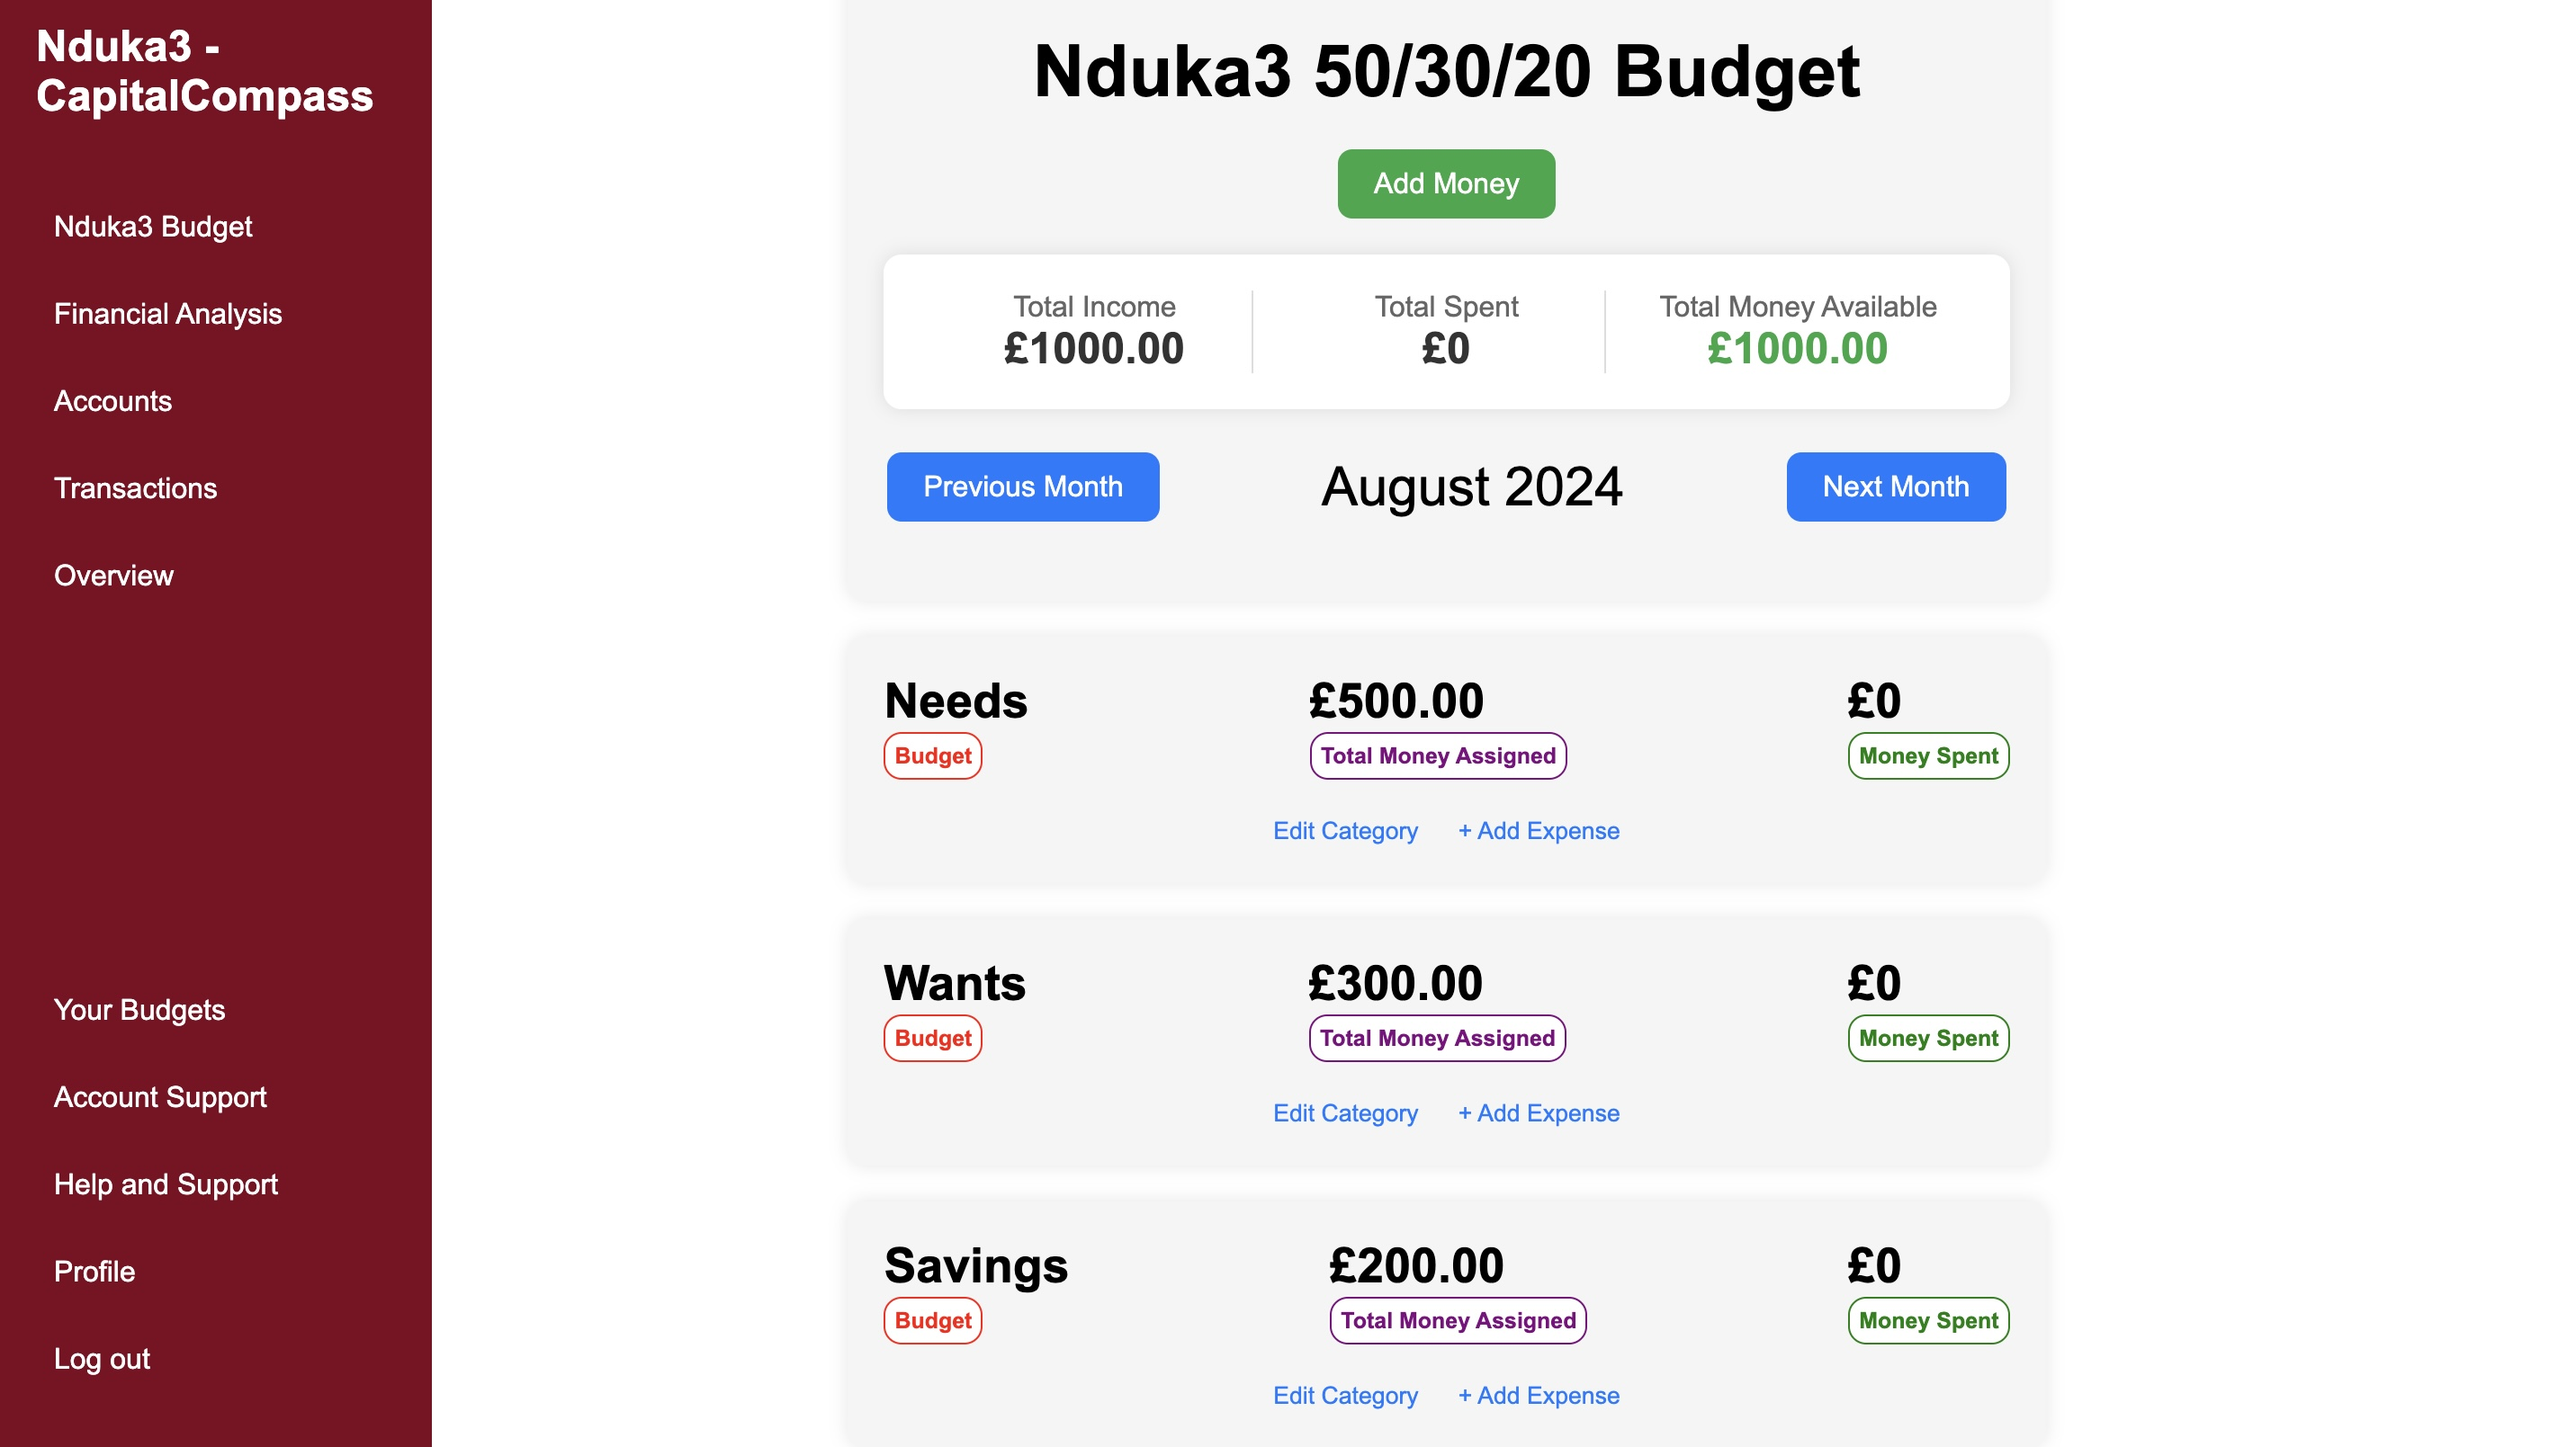
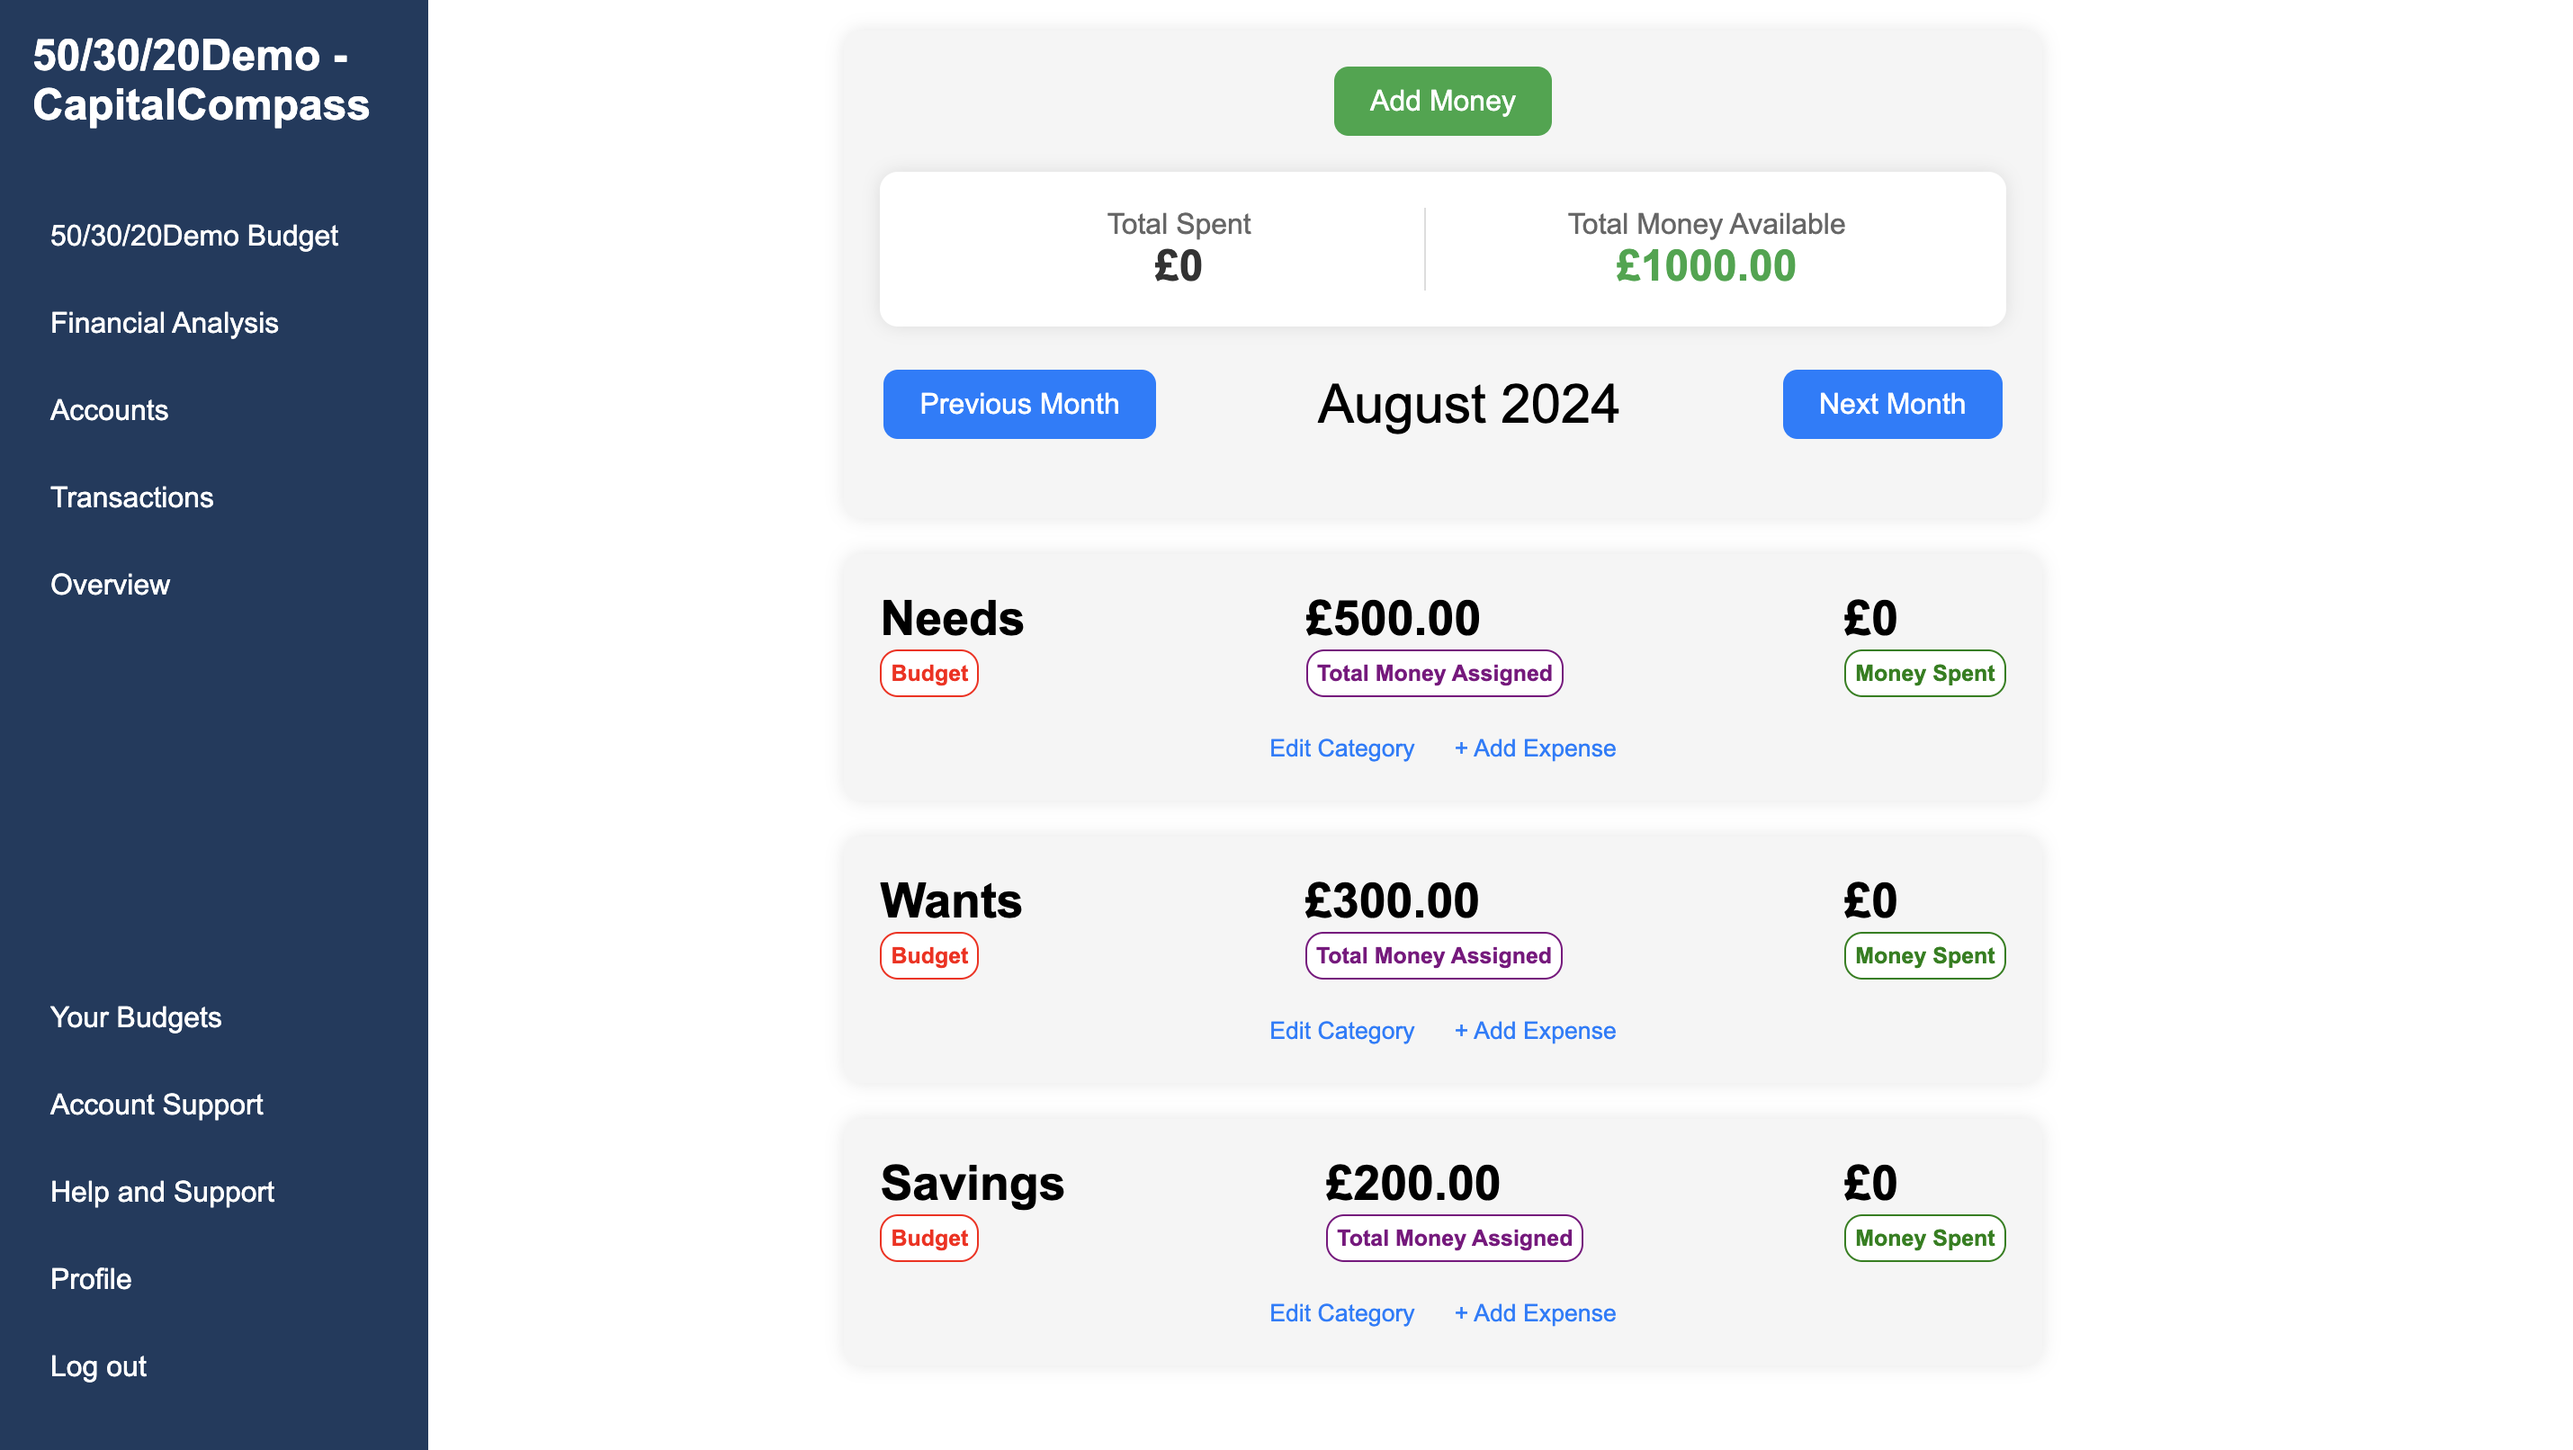
Final user interface updates

diff --git a/templates/financeapp/transactions.html b/templates/financeapp/transactions.html
@@ -29,7 +29,6 @@
                     </option>
                     {% endfor %}
                 </select>
-
                 <label for"category-filter">Filter by Category:</label>
                 <select id="category-filter" name="category_id" onchange="this.form.submit()">
                     <option value="">All Categories</option>
@@ -50,8 +49,8 @@
                 </select>
 
                 <select id="sort-order" name="sort_order" onchange="this.form.submit()">
-                    <option value="asc" {% if sort_order == 'asc' %}selected{% endif %}>Ascending</option>
                     <option value="desc" {% if sort_order == 'desc' %}selected{% endif %}>Descending</option>
+                    <option value="asc" {% if sort_order == 'asc' %}selected{% endif %}>Ascending</option>
                 </select>
             </form>
         </div>
@@ -90,7 +89,7 @@
                     <td>{{ transaction.outflow }}</td>
                     <td>{{ transaction.inflow }}</td>
                     <td>
-                        <button class="btn btn-sm btn-outline-secondary" onclick="showEditTransactionForm('{{ transaction.id }}', '{{ transaction.account.id }}', '{{ transaction.date|date:'Y-m-d' }}', '{{ transaction.description }}', '{{ transaction.payee }}', '{{ transaction.expense.id }}', '{{ transaction.outflow }}', '{{ transaction.inflow }}')">
+                        <button class="btn btn-sm btn-outline-secondary" onclick="showEditTransactionForm('{{ transaction.id }}', '{{ transaction.account_id }}', '{{ transaction.date|date:"Y-m-d" }}', '{{ transaction.description }}', '{{ transaction.payee|escapejs }}', '{{ transaction.expense_id|default:"null" }}', '{{ transaction.outflow }}', '{{ transaction.inflow }}')">
                             <i class="fas fa-pencil-alt"></i>
                         </button>
                     </td>
@@ -235,7 +234,6 @@
                         {% endfor %}
                         <option value="add-new-expense">+ Add New Expense</option>
                     </select>
-                 
                 </div>
                 <div class="styled-form-group">
                     <label for="edit-outflow" class="styled-label">Amount</label>

diff --git a/templates/financeapp/help_page.html b/templates/financeapp/help_page.html
@@ -67,13 +67,13 @@
                     <p>The 'Transactions' section helps you manage all your financial activities seamlessly. Here, you can add, edit, and delete transactions with ease.</p>
                     <p>To add a new transaction, simply click on the 'Add Transaction' button and fill in the necessary details. You can categorize each transaction, add notes, and set the transaction date to keep your records organized.</p>
                     <ul>
-                        <li><strong>Outflows:</strong> These represent expenses, where money is leaving your account. Outflows must be associated with an expense. If an expense isn’t available, you can create one on the budget page.</li>
-                        <li><strong>Inflows:</strong> Inflows represent income or any funds coming into your account, helping you track your earnings and deposits.</li>
+                        <li><strong>Outflows:</strong> These represent expenses, where money is leaving your account. Outflows are typically represented in <span style="color: red; font-weight: bold;">red</span>. Outflows must be associated with an expense. If an expense is not available, you can create one on the budget page.</li>
+                        <li><strong>Inflows:</strong> Inflows represent income or any funds coming into your account, helping you track your earnings and deposits. Inflows are typically represented in <span style="color: green; font-weight: bold;">green</span>.</li>
                     </ul>
-                    <p> To edit or delete a transaction, click on the transaction and select the appropriate action. </p>
+                    <p>To edit or delete a transaction, click on the transaction and select the appropriate action.</p>
                     <img src="{% static 'images/help-page/Transaction-screenshot.jpg' %}" alt="Transactions Overview">
                 </div>
-            </div>
+            </div>            
             
 
   

diff --git a/templates/financeapp/zero_based_budget_detail.html b/templates/financeapp/zero_based_budget_detail.html
@@ -210,7 +210,7 @@
                 <input type="hidden" name="category_id" id="expense-category-id">
                 <div id="add-expense-recurring-container" style="display: none;">
                     <div class="form-group">
-                        <label for="id_is_recurring" class="styled-label">Repeat Monthly:</label>
+                        <label for="id_is_recurring" class="styled-label">Would you like this to be a monthly expense?</label>
                         <input type="checkbox" name="is_recurring" id="id_is_recurring" class="styled-checkbox">
                     </div>
                 </div>
@@ -253,7 +253,7 @@
             </div>
             
             <div class="form-group">
-                <label for="edit-is_recurring_expense" class="styled-label">Repeat Monthly:</label>
+                <label for="edit-is_recurring_expense" class="styled-label">Would you like this to be a monthly expense?</label>
                 <input type="checkbox" name="is_recurring" id="edit-is_recurring_expense" class="form-check-input styled-checkbox">
             </div>
 

diff --git a/static/styles/application.css b/static/styles/application.css
@@ -15,7 +15,8 @@ body {
 
 .sidebar {
   width: 200px;
-  background-color: #800020; /* Burgundy color */
+  /* background-color: #800020; /* Burgundy color */
+  background-color: #1e3a5f;
   color: white;
   padding: 20px;
   display: flex;
@@ -71,7 +72,8 @@ body {
 }
 
 .sidebar nav ul li a:hover {
-  background-color: #a52a2a; /* Darker shade of burgundy */
+  /*background-color: #a52a2a; /* Darker shade of burgundy */
+  background-color: #264d73; /* Darker shade of professional blue */
 }
 
 main {

diff --git a/financeapp/models.py b/financeapp/models.py
@@ -243,7 +243,7 @@ class Expense(models.Model):
 #Transaction Model
 class Transaction(models.Model):
     account = models.ForeignKey(Account, on_delete=models.CASCADE, related_name='transactions')
-    expense = models.ForeignKey(Expense, on_delete=models.CASCADE, related_name='transactions', null=True, blank=True)
+    expense = models.ForeignKey(Expense, on_delete=models.SET_NULL, related_name='transactions', null=True, blank=True)
     date = models.DateField(default=timezone.now)
     description = models.CharField(max_length=255, blank=True, null=True)
     payee = models.CharField(max_length=255, blank=True, null=True)
@@ -264,7 +264,6 @@ class Transaction(models.Model):
                 if self.outflow > 0:
                     self.account.balance -= Decimal(self.outflow)
                     self.inflow = 0
-
                 self.account.save()
 
                 # If this is an outflow, update the linked expense
@@ -296,6 +295,23 @@ class Transaction(models.Model):
                             self.expense.spent = Decimal(self.outflow)
                             self.expense.save()
                 self.account.save()
+        elif self.plaid_imported:
+            if self.pk is None and not self.created_by_account : 
+                if self.outflow > 0 and self.expense:
+                    self.expense.spent += Decimal(self.outflow)
+                    self.expense.save()
+            else:
+                if self.pk is not None:
+                    old_transaction = Transaction.objects.get(pk=self.pk)
+                    if old_transaction.outflow > 0 and old_transaction.expense:
+                        old_transaction.expense.spent -= Decimal(old_transaction.outflow)
+                        old_transaction.expense.save()
+                    
+                    if self.outflow > 0 and self.expense:
+                        self.expense.spent = Decimal(self.outflow)
+                        self.expense.save()
+       
+
         super().save(*args, **kwargs)
 
     def delete(self, *args, **kwargs):
@@ -307,11 +323,10 @@ class Transaction(models.Model):
                 self.account.balance += Decimal(self.outflow)
 
             self.account.save()
-
-            # If this is an outflow, update the linked expense
-            if self.outflow > 0 and self.expense:
-                self.expense.spent -= Decimal(self.outflow)
-                self.expense.save()
+       
+        if self.outflow > 0 and self.expense:
+            self.expense.spent -= Decimal(self.outflow)
+            self.expense.save()
         super().delete(*args, **kwargs)
 
 #contactus model

diff --git a/financeapp/views.py b/financeapp/views.py
@@ -135,7 +135,7 @@ def account_list(request):
 #Plaid API integration
 #Step 1: Create a Plaid client
 configuration = plaid.Configuration(
-    host=plaid.Environment.Production,  # Using Sandbox environment for testing with fake data
+    host=plaid.Environment.Sandbox,  # Using Sandbox environment for testing with fake data
     api_key={
         'clientId': settings.PLAID_CLIENT_ID,
         'secret': settings.PLAID_SECRET,
@@ -1043,7 +1043,7 @@ def transaction_list(request):
     account_id = request.GET.get('account_id')
     category_id = request.GET.get('category_id')
     sort_by = request.GET.get('sort_by', 'date')
-    sort_order = request.GET.get('sort_order', 'asc')
+    sort_order = request.GET.get('sort_order', 'desc')
     
     
     transactions = Transaction.objects.filter(account__budget_id=budget)
@@ -1051,7 +1051,10 @@ def transaction_list(request):
     if account_id:
         transactions = transactions.filter(account_id=account_id)
     if category_id:
-       transactions = transactions.filter(expense__category_id=category_id)
+        if budget.budget_type == 'zero_based':
+            transactions = transactions.filter(expense__category_id=category_id)
+        else:
+            transactions = transactions.filter(expense__fifty_30_twenty_category_id=category_id)
         
     if sort_by == 'inflow':
         transactions = transactions.annotate(

diff --git a/financeapp/migrations/0029_auto_20240830_1302.py b/financeapp/migrations/0029_auto_20240830_1302.py
@@ -1,0 +1,19 @@
+# Generated by Django 2.1.5 on 2024-08-30 13:02
+
+from django.db import migrations, models
+import django.db.models.deletion
+
+
+class Migration(migrations.Migration):
+
+    dependencies = [
+        ('financeapp', '0028_auto_20240823_1031'),
+    ]
+
+    operations = [
+        migrations.AlterField(
+            model_name='transaction',
+            name='expense',
+            field=models.ForeignKey(blank=True, null=True, on_delete=django.db.models.deletion.SET_NULL, related_name='transactions', to='financeapp.Expense'),
+        ),
+    ]

diff --git a/CapitalCompass/settings_base.py b/CapitalCompass/settings_base.py
@@ -120,9 +120,9 @@ CSRF_FAILURE_VIEW = 'financeapp.views.csrf_failure'
 # settings.py
 PLAID_CLIENT_ID = env('PLAID_CLIENT_ID')
 PLAID_SECRET = env('PLAID_SECRET')
-PLAID_ENV = 'sandbox' 
-#PLAID_ENV = 'production'
+PLAID_ENVIRONMENT = os.getenv('PLAID_ENVIRONMENT')
 PLAID_PRODUCTS = ['auth', 'transactions', 'balance'] 
 PLAID_COUNTRY_CODES = ["GB"]
+
 
 
